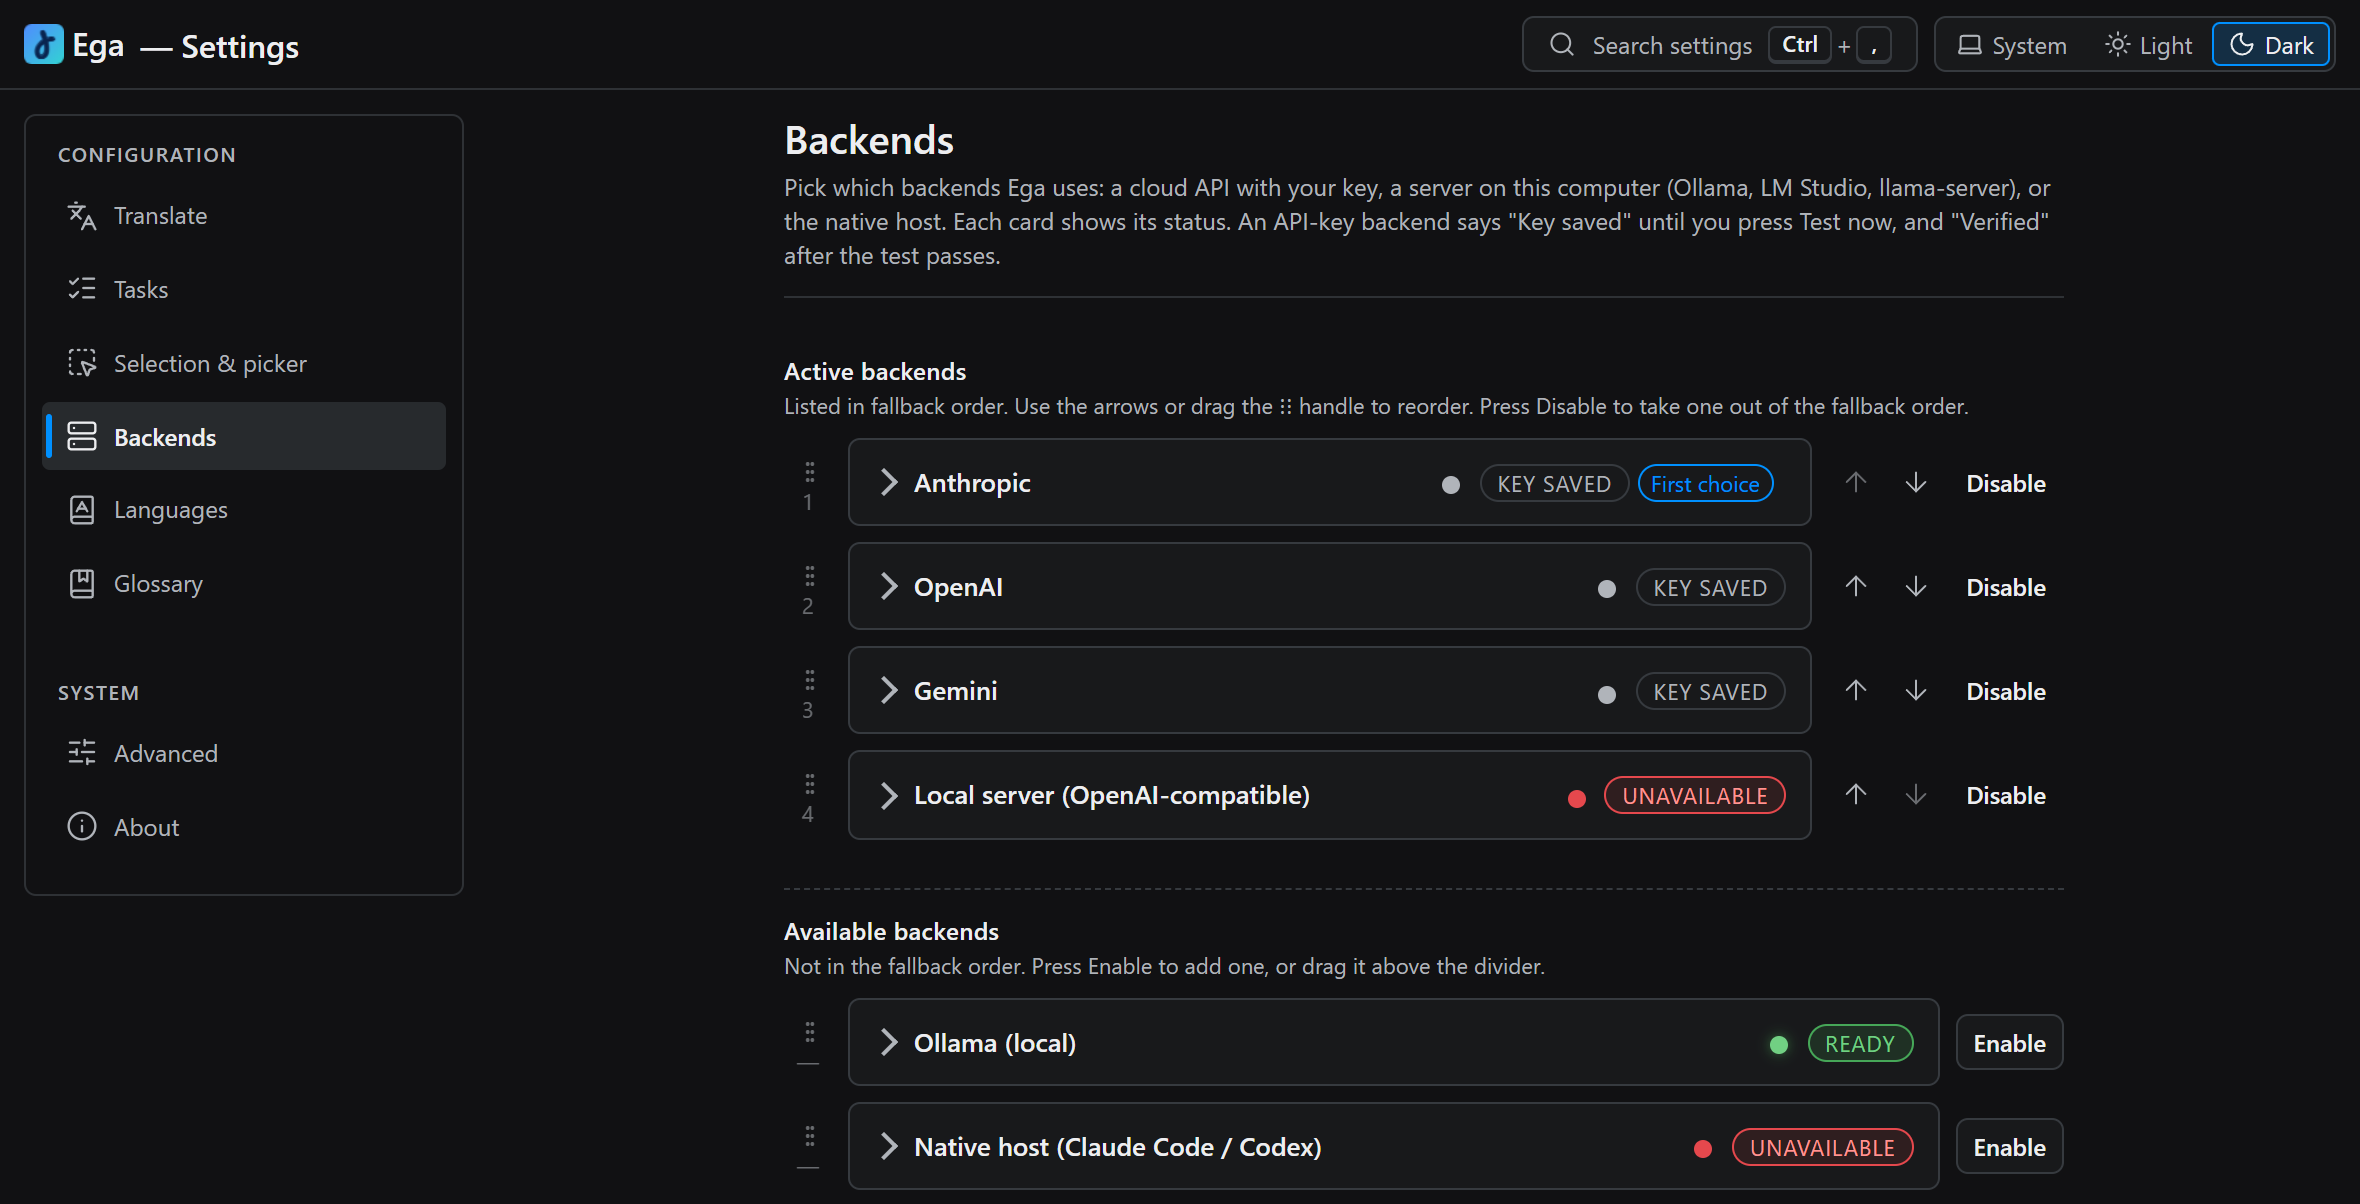
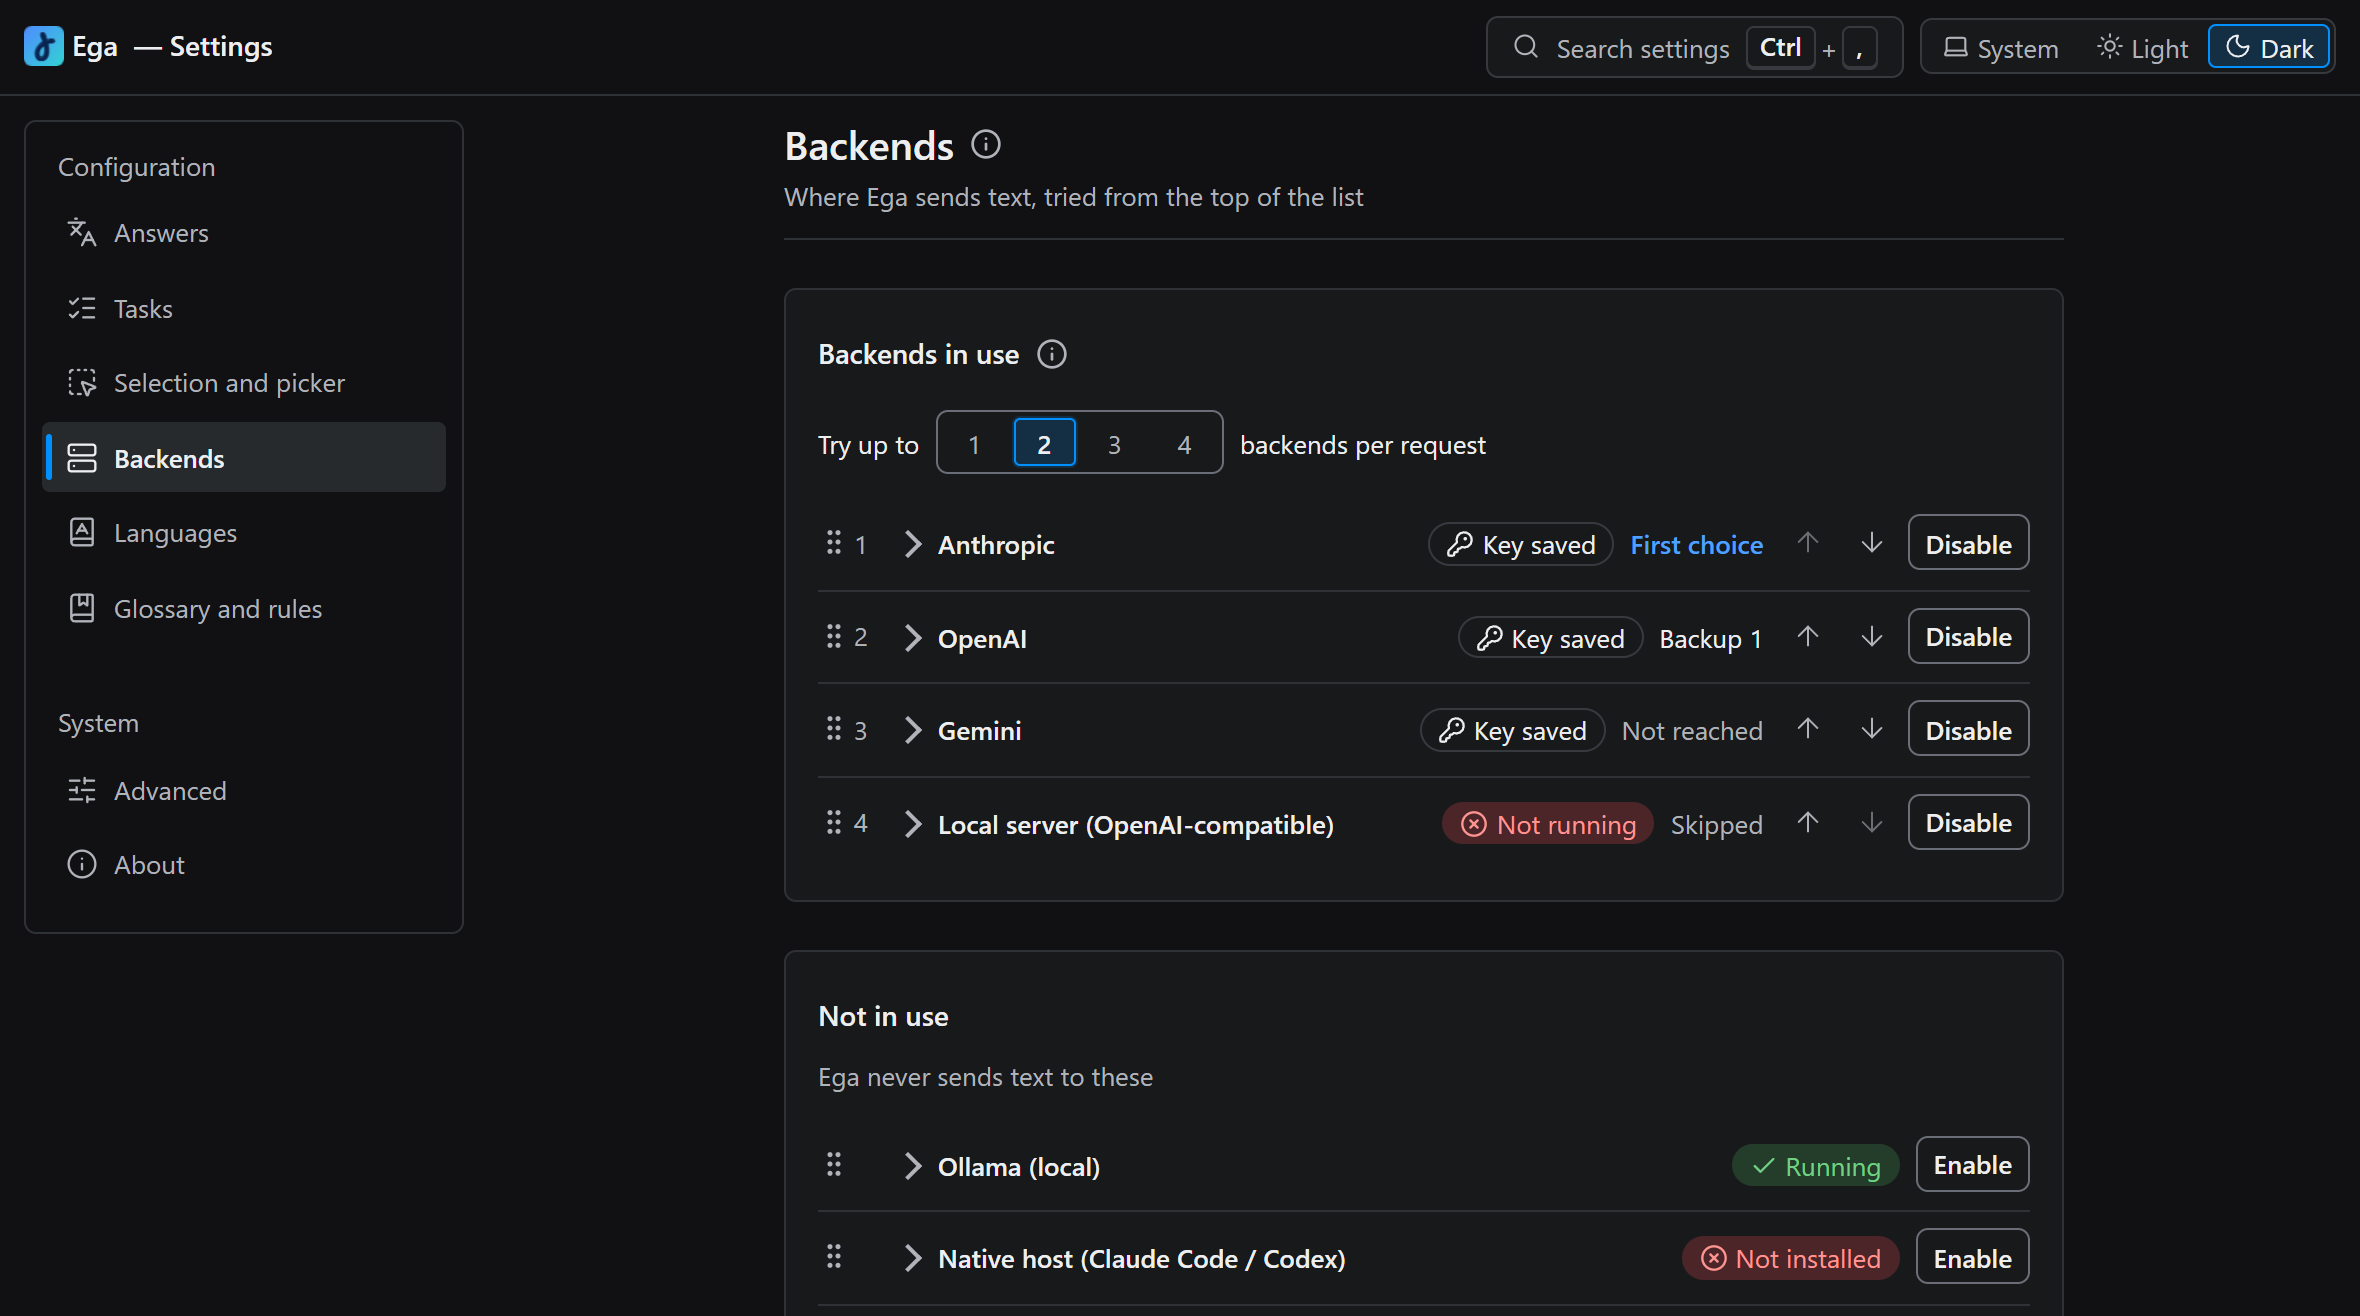
fix(options): the full-gate fixes for fix round 1, and the re-shot backends image
- The new dialog and swap tests waited on fixed sleeps; they now wait on the stored
  value or the attribute that proves the behaviour (no-fixed-sleeps).
- The read-only model field declares dir="auto" (bidi-text-entry).
- ModelCombobox now clears the branch floor, so its exception drops that metric.
- Three new hooks (conversation delete, the inline spinner, the test next step) are
  accepted into the affordance baseline.
- A cloud test that fails with No connection no longer repeats the catalog's "check
  your connection" as a second line.
- docs/media/backends.png is re-shot from the redesigned Backends tab (pnpm showcase),
  and its alt text says what it shows (BT-6).

diff --git a/tests/unit/options/dialog-save-model.test.ts b/tests/unit/options/dialog-save-model.test.ts
@@ -13,6 +13,7 @@ import { getCustomLanguages, getCustomTasks, getSettings } from '@/shared/storag
 import { listVarieties } from '@/shared/varieties';
 import { addCustomTask } from '@/shared/tasks';
 import { TEXT_SAVE_DELAY_MS } from '@/options/components/dialog-saver.svelte';
+import { flushAsync } from '@tests/_helpers/async';
 
 vi.mock('@/shared/components/confirmDialog', () => ({ confirmDialog: vi.fn(async () => true) }));
 const download = vi.fn();
@@ -50,8 +51,8 @@ function q<T extends Element = HTMLElement>(sel: string): T {
 }
 const status = (): string =>
   document.querySelector('[data-ega-dialog-status]')?.textContent.trim() ?? '';
-const pause = (ms = TEXT_SAVE_DELAY_MS + 300): Promise<void> =>
-  new Promise((r) => setTimeout(r, ms));
+// Long enough for the typing pause to end and the write to land.
+const SAVED = { timeout: TEXT_SAVE_DELAY_MS + 1500 };
 const done = (): Promise<boolean> => fireEvent.click(q('[data-ega-dialog-done]'));
 const nameField = (): HTMLInputElement =>
   q<HTMLInputElement>('input[data-ega-language-name], [data-ega-language-name] input');
@@ -93,12 +94,14 @@ describe('language dialog: each text field saves on its own', () => {
     await fireEvent.input(q('[data-ega-language-example="0"] input:nth-of-type(2)'), {
       target: { value: 'hello' },
     });
-    await pause();
-    const row = (await getCustomLanguages())[0];
-    expect(row?.label).toBe('My Slang');
-    expect(row?.hint).toBe('rewritten notes');
-    expect(row?.examples[0]?.tgt).toBe('hello');
+    await waitFor(async () => {
+      const row = (await getCustomLanguages())[0];
+      expect(row?.hint).toBe('rewritten notes');
+      expect(row?.examples[0]?.tgt).toBe('hello');
+    }, SAVED);
+    expect((await getCustomLanguages())[0]?.label).toBe('My Slang');
     // The other fields saved, and the footer still names the one that did not.
+    await flushAsync();
     expect(status()).toBe('Not saved: add a name');
   });
 
@@ -124,8 +127,12 @@ describe('language dialog: each text field saves on its own', () => {
     await fireEvent.input(q('[data-ega-language-notes]'), {
       target: { value: 'my arabizi notes' },
     });
-    await pause();
-    expect((await getSettings()).varietyOverrides['arabizi']?.hint).toBe('my arabizi notes');
+    await waitFor(
+      async () =>
+        expect((await getSettings()).varietyOverrides['arabizi']?.hint).toBe('my arabizi notes'),
+      SAVED,
+    );
+    await flushAsync();
     expect(status()).toBe('Not saved: the pattern is not valid');
     await done();
     await waitFor(() => expect(onClose).toHaveBeenCalledTimes(1));
@@ -151,9 +158,11 @@ describe('language dialog: each text field saves on its own', () => {
     await fireEvent.input(nameField(), { target: { value: '' } });
     await waitFor(() => expect(status()).toBe('Not saved: add a name'));
     await fireEvent.input(nameField(), { target: { value: 'Our Slang' } });
-    await pause();
-    expect((await getCustomLanguages())[0]?.label).toBe('Our Slang');
-    expect(status()).toBe('Saved');
+    await waitFor(
+      async () => expect((await getCustomLanguages())[0]?.label).toBe('Our Slang'),
+      SAVED,
+    );
+    await waitFor(() => expect(status()).toBe('Saved'));
     await done();
     expect(confirm).not.toHaveBeenCalled();
   });
@@ -197,11 +206,13 @@ describe('custom task dialog: each field saves on its own', () => {
     });
     await fireEvent.click(q('[data-ega-custom-task-effort] [data-ega-effort-value="high"]'));
     await fireEvent.click(q<HTMLInputElement>('input[data-ega-custom-task-glossary]'));
-    await pause();
-    const stored = (await getCustomTasks())[0];
-    expect(stored?.effort).toBe('high');
-    expect(stored?.glossary).toBe(true);
-    expect(stored?.user).toBe(TASK.user);
+    await waitFor(async () => {
+      const stored = (await getCustomTasks())[0];
+      expect(stored?.effort).toBe('high');
+      expect(stored?.glossary).toBe(true);
+    }, SAVED);
+    expect((await getCustomTasks())[0]?.user).toBe(TASK.user);
+    await flushAsync();
     expect(status()).toBe('Not saved: the message needs the Selected text variable');
     await done();
     await waitFor(() => expect(onClose).toHaveBeenCalledTimes(1));
@@ -219,10 +230,12 @@ describe('custom task dialog: each field saves on its own', () => {
     await fireEvent.input(q('[data-ega-template-system] textarea'), {
       target: { value: 'Be very polite.' },
     });
-    await pause();
-    const stored = (await getCustomTasks())[0];
-    expect(stored?.label).toBe('Polite reply');
-    expect(stored?.system).toBe('Be very polite.');
+    await waitFor(
+      async () => expect((await getCustomTasks())[0]?.system).toBe('Be very polite.'),
+      SAVED,
+    );
+    expect((await getCustomTasks())[0]?.label).toBe('Polite reply');
+    await flushAsync();
     expect(status()).toBe('Not saved: add a name');
   });
 });
@@ -240,7 +253,7 @@ describe('built-in task dialog: the footer keeps an unsaved field named', () => 
     await waitFor(async () =>
       expect((await getSettings()).taskOverrides.summarize?.effort).toBe('high'),
     );
-    await pause(400);
+    await flushAsync();
     expect(status()).toBe('Not saved: the message needs the Selected text variable');
   });
 });

diff --git a/tests/unit/options/sections/LangDefaultsSection.svelte.test.ts b/tests/unit/options/sections/LangDefaultsSection.svelte.test.ts
@@ -55,10 +55,8 @@ describe('LangDefaultsSection', () => {
     ).toBe('Swap needs a source language, not Auto-detect');
     await fireEvent.click(btn);
     expect(onPatch).not.toHaveBeenCalled();
-    // Focus opens a tooltip; its id must not replace the reason while the button has focus.
-    btn.focus();
-    await fireEvent.focus(btn);
-    await new Promise((r) => setTimeout(r, 300));
+    // No tooltip trigger (bits-ui marks one with data-state): its open tooltip would replace the reason.
+    expect(btn.hasAttribute('data-state')).toBe(false);
     expect(btn.getAttribute('aria-describedby')).toBe('lds-swap-why');
   });
 

diff --git a/scripts/coverage-floor.ts b/scripts/coverage-floor.ts
@@ -23,7 +23,7 @@ export const EXCEPTIONS: Readonly<Record<string, Exception>> = {
     reason: 'E2E-only hook surface; dead-code-eliminated unless EGA_E2E_HOOKS=1',
   },
   'src/options/components/ModelCombobox.svelte': {
-    metrics: ['lines', 'statements', 'functions', 'branches'],
+    metrics: ['lines', 'statements', 'functions'],
     reason: 'no direct unit test for these paths',
   },
   'src/options/components/TemplateDiffModal.svelte': {

diff --git a/src/options/components/backend-card/BackendCardTestRow.svelte b/src/options/components/backend-card/BackendCardTestRow.svelte
@@ -74,7 +74,7 @@
       : failure.id === 'NETWORK'
         ? local
           ? 'Check that it is running at the address above, then test again.'
-          : 'Check your network, then test again.'
+          : null // The catalog sentence already says to check the connection.
         : (NEXT_STEP[failure.id] ?? null),
   );
 </script>

diff --git a/src/options/components/CloudProviderCard.svelte b/src/options/components/CloudProviderCard.svelte
@@ -217,6 +217,7 @@
         <!-- Not in use: the model shows read-only and stays in the Tab order with its reason (F66, K-5). -->
         <input
           class="cp-model-static"
+          dir="auto"
           readonly
           aria-disabled="true"
           aria-label="{label} model"

diff --git a/README.md b/README.md
@@ -165,7 +165,7 @@ the plan's usage limits. For Codex, the CLI comes with ChatGPT Plus, Pro, Busine
 and Edu, not with Free or Go ([OpenAI's Codex pricing](https://learn.chatgpt.com/docs/pricing)).
 
 <p align="center">
-  <img src="docs/media/backends.png" alt="Ega's Settings page on the Backends tab: Anthropic, OpenAI and Gemini under Backends in use with their place in the order and a status word each, and more backends under Not in use" width="820">
+  <img src="docs/media/backends.png" alt="Ega's Settings page on the Backends tab in dark mode: Anthropic, OpenAI, Gemini and a local server under Backends in use, each with its place in the order, a status word and its route (First choice, Backup 1, Not reached, Skipped), and Ollama and the native host under Not in use" width="820">
 </p>
 
 Order all thirteen in one fallback chain. When one fails Ega moves to the next, as far as
